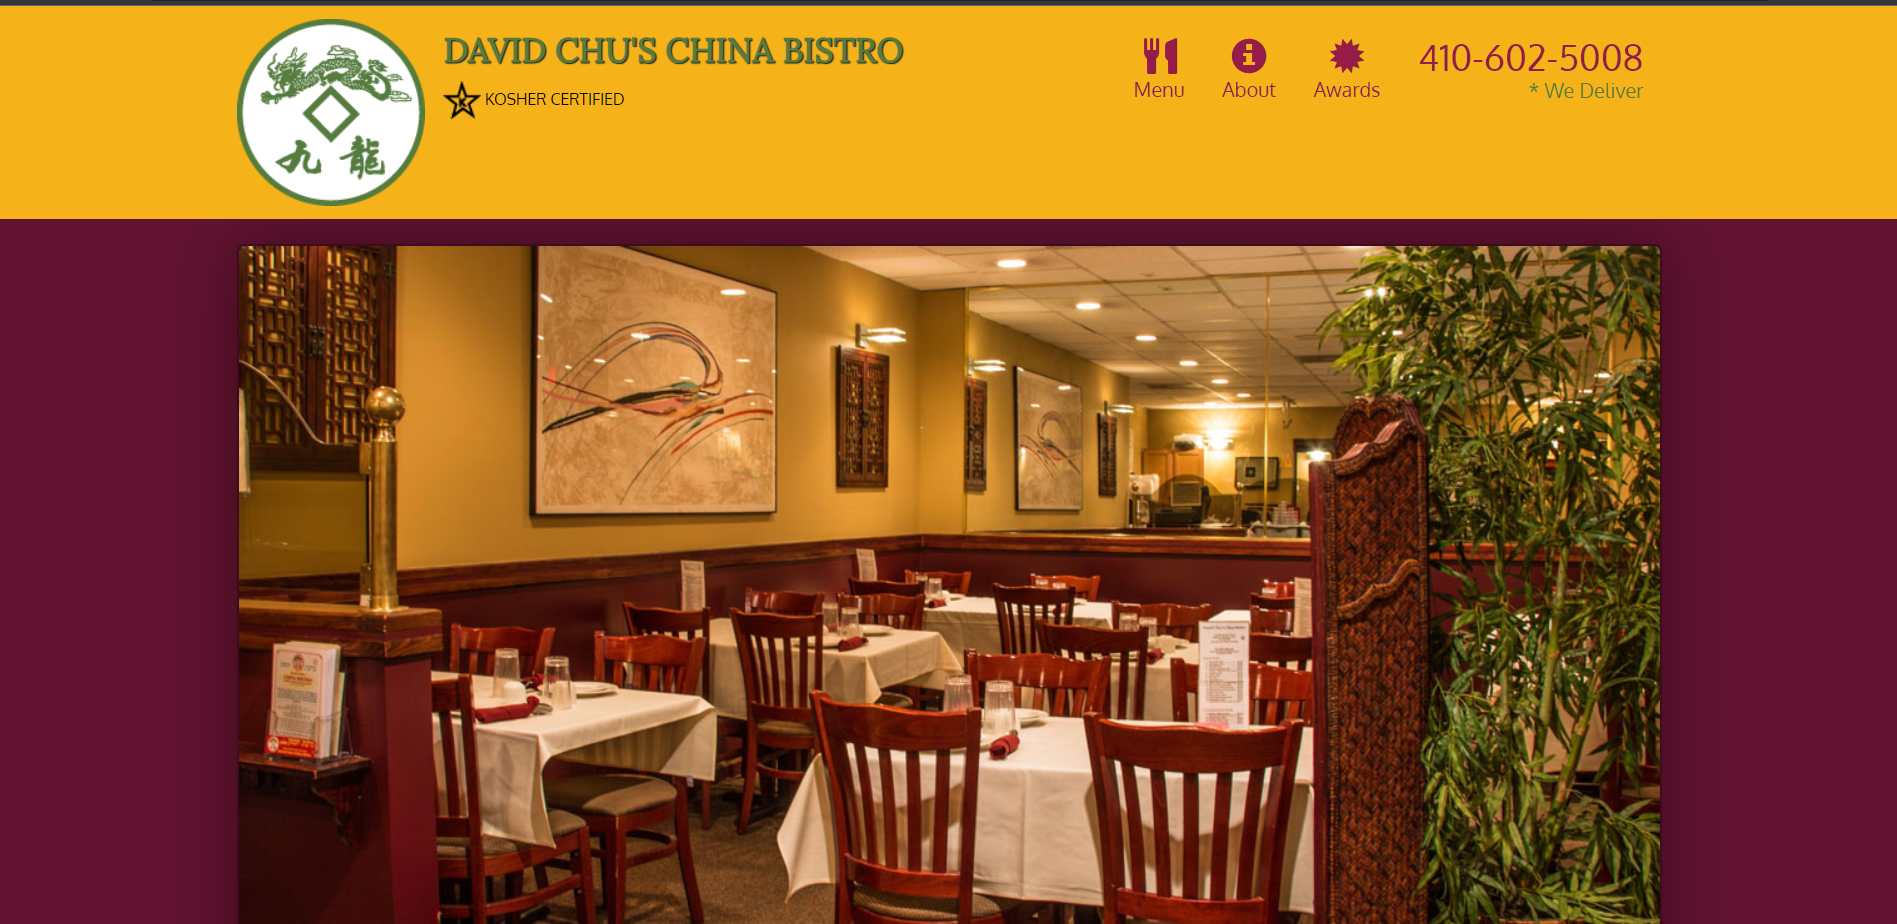
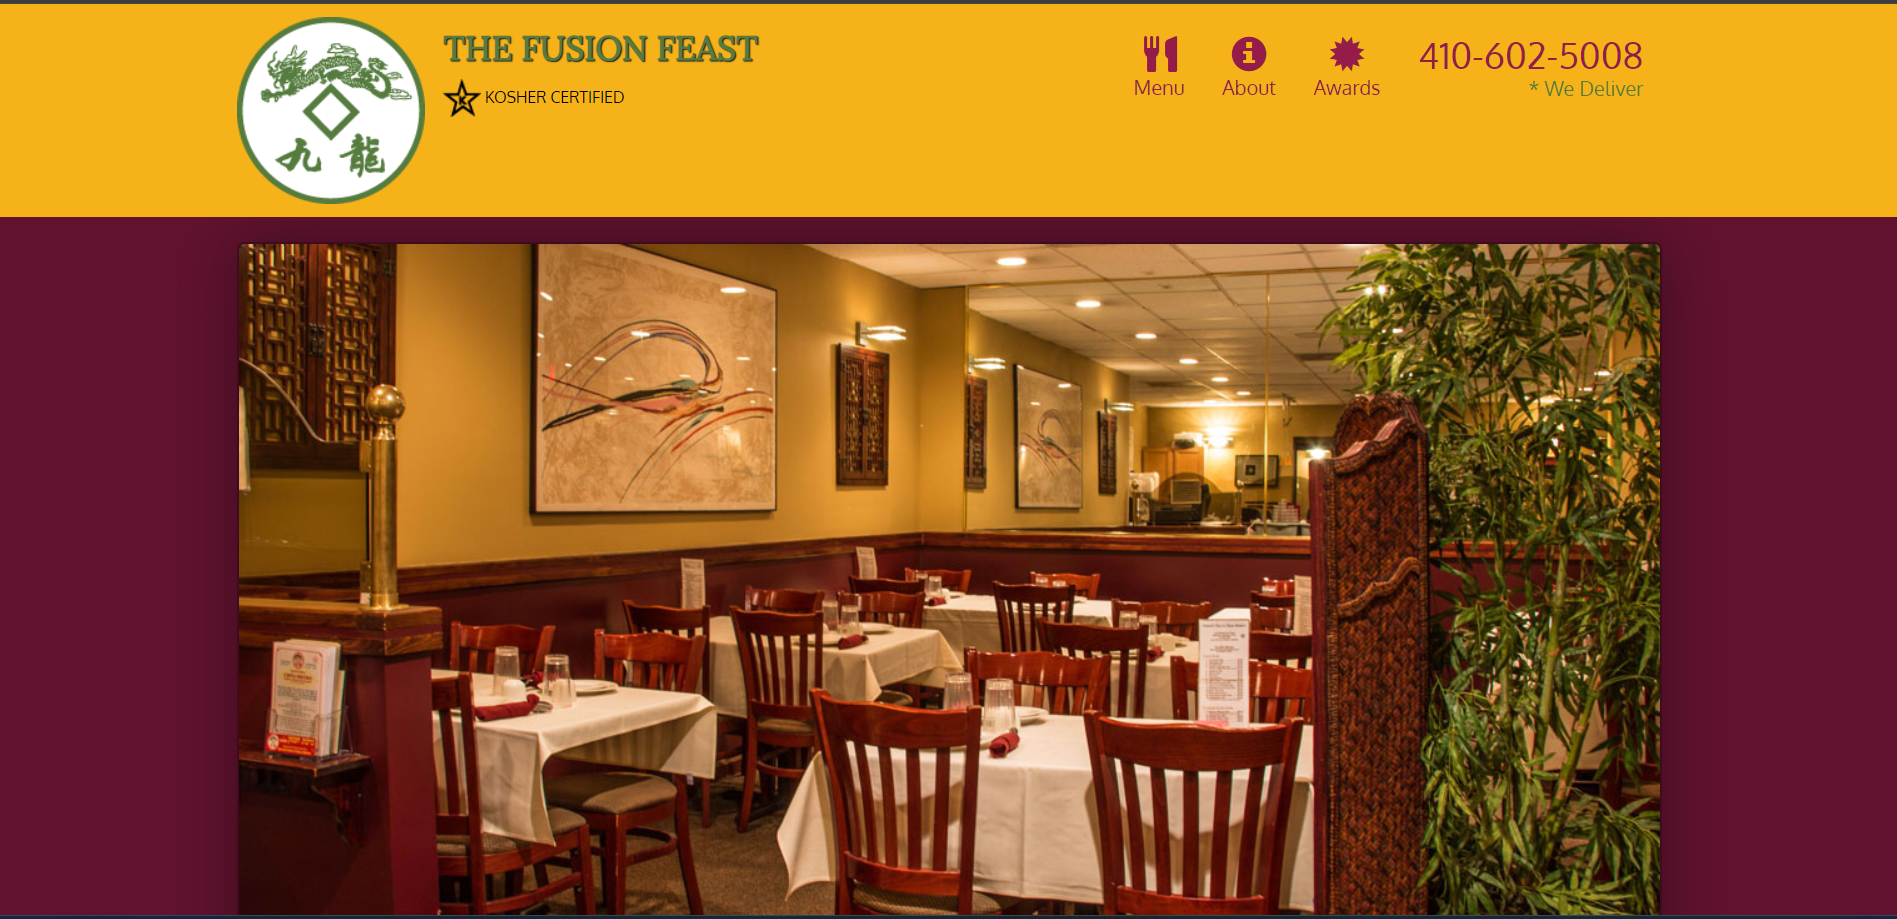
update

diff --git a/index.html b/index.html
@@ -4,7 +4,7 @@
     <meta charset="utf-8">
     <meta http-equiv="X-UA-Compatible" content="IE=edge">
     <meta name="viewport" content="width=device-width, initial-scale=1">
-    <title>David Chu's China Bistro</title>
+    <title> The Fusion Feast</title>
     <link rel="stylesheet" href="css/bootstrap.min.css">
     <link rel="stylesheet" href="css/styles.css">
     <link href='https://fonts.googleapis.com/css?family=Oxygen:400,300,700' rel='stylesheet' type='text/css'>
@@ -20,7 +20,7 @@
           </a>
 
           <div class="navbar-brand">
-            <a href="index.html"><h1>David Chu's China Bistro</h1></a>
+            <a href="index.html"><h1>The Fusion Feast</h1></a>
             <p>
               <img src="images/star-k-logo.png" alt="Kosher certification">
               <span>Kosher Certified</span>
@@ -95,7 +95,8 @@
           <p>"Amazing food! Great service! Couldn't ask for more! I'll be back again and again!"</p>
         </section>
       </div>
-      <div class="text-center">&copy; Copyright David Chu's China Bistro 2016</div>
+      <!-- <div class="text-center">&copy; Copyright The Fusion Feast 2016</div> -->
+      <div class="text-center">&copy; Copyright: The Fusion Feast : <span id="currentYear"></span></div>
     </div>
   </footer>
 
@@ -104,5 +105,12 @@
   <script src="js/bootstrap.min.js"></script>
   <script src="js/ajax-utils.js"></script>
   <script src="js/script.js"></script>
+  <script>
+     // Get the current year
+     var currentYear = new Date().getFullYear();
+    
+    // Display the current year in the HTML
+    document.getElementById("currentYear").innerHTML = currentYear;
+  </script>
 </body>
 </html>

diff --git a/menu-categories.html b/menu-categories.html
@@ -4,7 +4,7 @@
     <meta charset="utf-8">
     <meta http-equiv="X-UA-Compatible" content="IE=edge">
     <meta name="viewport" content="width=device-width, initial-scale=1">
-    <title>David Chu's China Bistro</title>
+    <title>The Fusion Feast</title>
     <link rel="stylesheet" href="css/bootstrap.min.css">
     <link rel="stylesheet" href="css/styles.css">
     <link href='https://fonts.googleapis.com/css?family=Oxygen:400,300,700' rel='stylesheet' type='text/css'>
@@ -20,7 +20,7 @@
           </a>
 
           <div class="navbar-brand">
-            <a href="index.html"><h1>David Chu's China Bistro</h1></a>
+            <a href="index.html"><h1>The Fusion Feast</h1></a>
             <p>
               <img src="images/star-k-logo.png" alt="Kosher certification">
               <span>Kosher Certified</span>
@@ -176,7 +176,7 @@
           <p>"Amazing food! Great service! Couldn't ask for more! I'll be back again and again!"</p>
         </section>
       </div>
-      <div class="text-center">&copy; Copyright David Chu's China Bistro 2016</div>
+      <div class="text-center">&copy; Copyright The Fusion Feast 2016</div>
     </div>
   </footer>
 

diff --git a/single-category.html b/single-category.html
@@ -4,7 +4,7 @@
     <meta charset="utf-8">
     <meta http-equiv="X-UA-Compatible" content="IE=edge">
     <meta name="viewport" content="width=device-width, initial-scale=1">
-    <title>David Chu's China Bistro</title>
+    <title>The Fusion Feast</title>
     <link rel="stylesheet" href="css/bootstrap.min.css">
     <link rel="stylesheet" href="css/styles.css">
     <link href='https://fonts.googleapis.com/css?family=Oxygen:400,300,700' rel='stylesheet' type='text/css'>
@@ -20,7 +20,7 @@
           </a>
 
           <div class="navbar-brand">
-            <a href="index.html"><h1>David Chu's China Bistro</h1></a>
+            <a href="index.html"><h1>The Fusion Feast</h1></a>
             <p>
               <img src="images/star-k-logo.png" alt="Kosher certification">
               <span>Kosher Certified</span>
@@ -210,7 +210,7 @@
           <p>"Amazing food! Great service! Couldn't ask for more! I'll be back again and again!"</p>
         </section>
       </div>
-      <div class="text-center">&copy; Copyright David Chu's China Bistro 2016</div>
+      <div class="text-center">&copy; Copyright The Fusion Feast 2016</div>
     </div>
   </footer>
 

diff --git a/README.md b/README.md
@@ -1,7 +1,7 @@
-# David Chu's China Bistro
+# The Fusion Feast
 ![Restaurant Image](overview3.png)
 
-Welcome to David Chu's China Bistro! This repository contains the source code for a restaurant website designed to showcase the offerings and services of David Chu's China Bistro. The website features a responsive design, making it accessible on various devices, and includes sections for the menu, about information, awards, contact details, and customer testimonials.
+Welcome to The Fusion Feast! This repository contains the source code for a restaurant website designed to showcase the offerings and services of The Fusion Feast. The website features a responsive design, making it accessible on various devices, and includes sections for the menu, about information, awards, contact details, and customer testimonials.
 
 ## Visit Site:
  https://chetankumar9903.github.io/Restaurant_Website/
